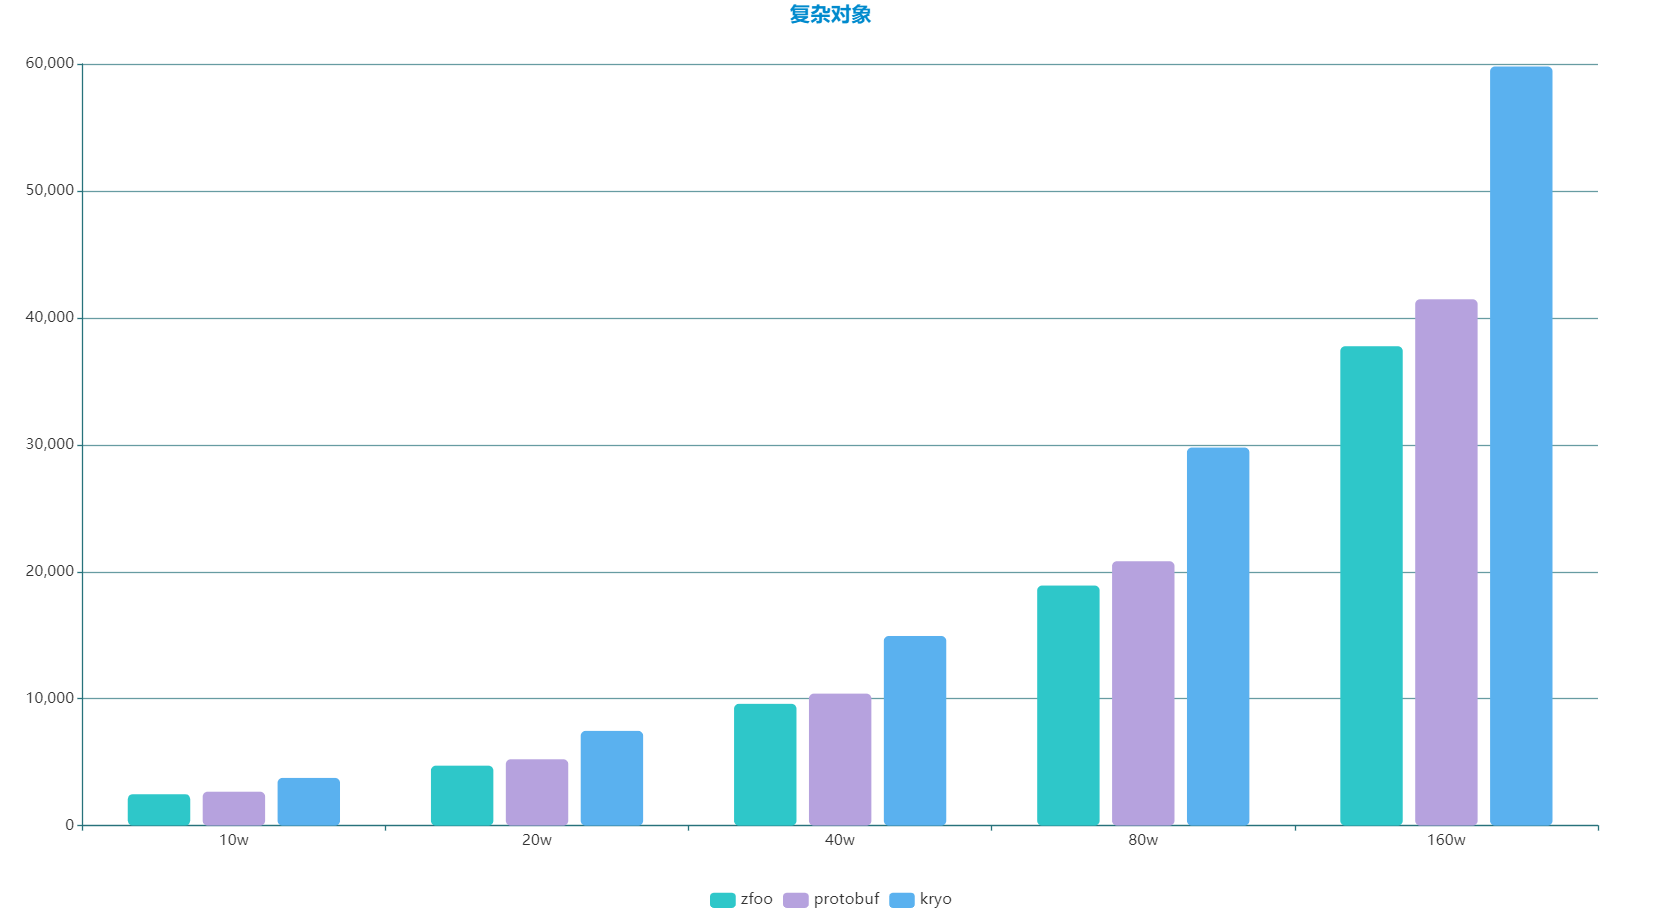
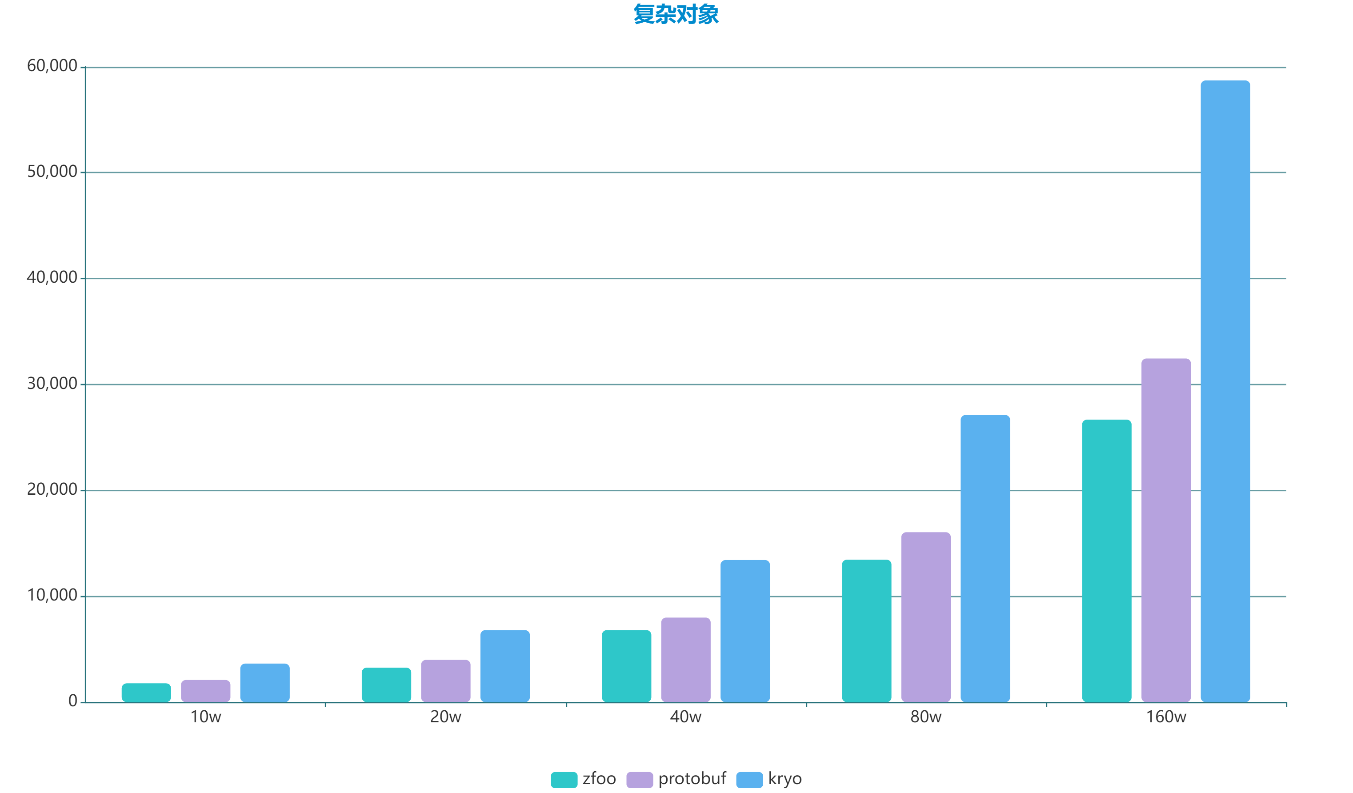
perf[protocol]: 更新文档

diff --git a/protocol/src/test/java/com/zfoo/protocol/SpeedTest.java b/protocol/src/test/java/com/zfoo/protocol/SpeedTest.java
@@ -15,10 +15,8 @@ package com.zfoo.protocol;
 
 
 import com.esotericsoftware.kryo.Kryo;
-import com.esotericsoftware.kryo.io.ByteBufferInput;
-import com.esotericsoftware.kryo.io.ByteBufferOutput;
-import com.esotericsoftware.kryo.io.Input;
-import com.esotericsoftware.kryo.io.Output;
+import com.esotericsoftware.kryo.unsafe.UnsafeInput;
+import com.esotericsoftware.kryo.unsafe.UnsafeOutput;
 import com.google.protobuf.ByteString;
 import com.google.protobuf.CodedInputStream;
 import com.google.protobuf.CodedOutputStream;
@@ -33,7 +31,6 @@ import io.netty.buffer.UnpooledUnsafeHeapByteBuf;
 import org.junit.Ignore;
 import org.junit.Test;
 
-import java.nio.ByteBuffer;
 import java.util.*;
 import java.util.concurrent.CountDownLatch;
 import java.util.concurrent.ExecutorService;
@@ -54,8 +51,8 @@ public class SpeedTest {
      * <p>
      * 包体大小：
      * 简单对象，zfoo包体大小8，kryo包体大小5，protobuf包体大小8
-     * 常规对象，zfoo包体大小547，kryo包体大小594，protobuf包体大小984
-     * 复杂对象，zfoo包体大小2214，kryo包体大小2525，protobuf包体大小5091
+     * 常规对象，zfoo包体大小430，kryo包体大小483，protobuf包体大小793
+     * 复杂对象，zfoo包体大小2216，kryo包体大小2528，protobuf包体大小5091
      */
     @Ignore
     @Test
@@ -140,8 +137,8 @@ public class SpeedTest {
     public void kryoTest() {
         var kryo = kryos.get();
 
-        var output = new Output(1024 * 8);
-        var input = new Input(output.getBuffer());
+        var output = new UnsafeOutput(1024 * 8);
+        var input = new UnsafeInput(output.getBuffer());
 
         // 序列化和反序列化简单对象
         long startTime = System.currentTimeMillis();

diff --git a/protocol/README.md b/protocol/README.md
@@ -1,9 +1,9 @@
 ### Ⅰ. 简介
 
 - [zfoo protocol](https://github.com/zfoo-project/zfoo/blob/main/protocol/README.md)
-  是目前的Java二进制序列化和反序列化最快的框架，并且为序列化后字节最少的框架
+  是目前的Java二进制序列化和反序列化速度最快的框架，并且为序列化字节最少的框架
 - 协议目前原生支持 **C++ Java Javascript C# Lua GDScript**，可以轻易实现跨平台
-- 使用Javassist字节码增强动态生成顺序执行的序列化和反序列化函数，顺序执行的函数可以轻易的被JIT编译以达到极致的性能
+- 协议可以自定义私有协议格式，让你的协议更加安全，支持增加字段和兼容前后版本协议
 - 兼容protobuf，支持生成protobuf协议文件，提供从pojo到proto的生成方式
 
 ### Ⅱ. 快速使用
@@ -23,7 +23,7 @@ var packet = ProtocolManager.read(buffer);
 
 ### Ⅲ. 性能测试
 
-- 单线程环境，在没有任何JVM参数调优的情况下速度比Protobuf快20%，比Kryo快40%，[参见性能测试](src/test/java/com/zfoo/protocol/SpeedTest.java)
+- 单线程环境，在没有任何JVM参数调优的情况下速度比Protobuf快50%，比Kryo快100%，[参见性能测试](src/test/java/com/zfoo/protocol/SpeedTest.java)
 - 线程安全，zfoo和Protobuf的性能不受任何影响，kryo因为线程不安全性能会有所损失，[参见性能测试](src/test/java/com/zfoo/protocol/SpeedTest.java)
 
 
@@ -42,43 +42,33 @@ cpu： i9900k
 
 ### Ⅳ. 为什么快
 
-- 轻量级实现，核心序列化和反序列化代码一千行左右
+- 使用Javassist字节码增强动态生成顺序执行的序列化和反序列化函数，顺序化的函数可以轻易的被JIT编译以达到极致的性能
+- 原生集成netty的高性能ByteBuf
 - 没有装箱和拆箱，避免了无效GC
 - 天生线程安全并且无锁化；kryo强制要求每条线程都有自己的一个Kryo实例，这是一个比较重的设计，特别是线程比较多的场景
 - 没有反射，没有unsafe操作；对比kryo中使用objenesis导致大量unsafe，而且在Java11中运行会出现警告
-- 优化了int和long的zigzag和varint编码的算法，避免了一些多余的方法调用和位操作
 - 扁平化了方法栈的调用深度，数据结构嵌套没有任何性能损失，如List<Set<Map<>>>；对比kryo和protobuf数据结构嵌套会出现性能损失
-- 使用Javassist字节码增强动态生成顺序执行的序列化和反序列化函数，顺序化的函数可以轻易的被JIT编译以达到极致的性能
-- 其它优点
+- 无漏洞注入风险，只有初始化时会进行字节码增强，后期不会再进行任何字节码的操作
 
 ```
-无漏洞注入风险，只有初始化时会进行字节码增强，后期不会再进行任何字节码的操作
 数据压缩体积小，压缩体积比kryo和protobuf都要小；比kryo小是因为kryo需要写入每个对象的注册号
 智能语法分析，错误的协议定义将无法启动程序并给出错误警告
 提升开发效率，完全支持POJO方式开发，使用非常简单
 ```
 
-### Ⅴ. 待解决的问题
+### Ⅴ. 为什么小
 
-- 为了代码的优雅，zfoo protocol要求全部的协议类都要继承IPacket，但是可以保证不损失性能的情况下支持不继承IPacket的设计，这个有待继续讨论。
-- 协议类修改
-  - 修改字段名称过后无法解析，内部使用字段的名称按照字符串的自然顺序来依次读写的，所以修改名称会导致读写顺序变化导致出现异常
-  - 减少字段无法解析，没必要一定要删除一个不需要的字段，所以不考虑这种情况
-  - 增加字段无法解析，可以考虑通过版本号去控制，或者增加新的协议类去解决（组合大于继承，协议类应该对扩展开放，对修改关闭）
+- 轻量级实现，核心序列化和反序列化代码一千行左右
+- 优化了int和long的zigzag和varint编码的算法，避免了一些多余的方法调用和位操作
+- 数据压缩体积小，压缩体积比kryo和protobuf都要小；比kryo小是因为kryo需要写入每个对象的注册号
+- 智能语法分析，错误的协议定义将无法启动程序并给出错误警告
+- 提升开发效率，完全支持POJO方式开发，使用非常简单
 
 ```
-设计模式六大原则中的开闭原则是对扩展开放，对修改关闭。协议的设计涉及到功能应该也要遵守这个原则。
-
 目前的序列化过后对象的大小如下：
 简单对象，zfoo包体大小8，kryo包体大小5，protobuf包体大小8
-常规对象，zfoo包体大小547，kryo包体大小594，protobuf包体大小984
-复杂对象，zfoo包体大小2214，kryo包体大小2525，protobuf包体大小5091
-
-如果考虑支持修改协议类字段名称，必须让字段的读写顺序可控，这就需要注解来标识字段的顺序（protostuff就是这样做的），但是感觉这样不优雅。
-如果考虑支持字段增加和减少，需要消耗5%左右的性能（预估），并且增加一倍的包体积大小（写入字段的顺序），感觉不是非常划算。
-因为可以通过协议版本号来解决这个问题，所以去支持这样的增删操作动力并不是非常的大。
-
-对于服务器来说协议一般有对内和对外的协议，对外protobuf用起来还行，但是服务器的内部调用protobuf用的就少了，用zfoo就可以统一对内和对外的协议。
+常规对象，zfoo包体大小430，kryo包体大小483，protobuf包体大小793
+复杂对象，zfoo包体大小2216，kryo包体大小2528，protobuf包体大小5091
 ```
 
 ### Ⅵ. 协议规范
@@ -88,22 +78,32 @@ cpu： i9900k
 - 协议类必须是简单的javabean，不能继承任何其它的类，但是可以继承接口
 
 - 默认的数据格式支持，无需用户手动注册，[参考类定义](src/test/java/com/zfoo/protocol/packet/ComplexObject.java)
-  - boolean，byte，short，int，long，float，double，char，String
-  - Boolean，Byte，Short，Integer，Long，Float，Double，Character，序列化的时候如果null，会给个默认值0（Character默认值为Character.MIN_VALUE）
-  - int[]，Integer[]，如果是null，则解析后的为一个长度为0的数组
-    - 原生泛型List，Set，Map，反序列化返回类型为HashSet，ArrayList，HashMap，并且空指针安全（返回大小为0的集合）
-    - List<Integer>，必须指定泛型类，如果发送的是[1,1,null,1]，接收到的是[1,1,0,1]
-    - List<XXXClass>，如果发送的是[obj,obj,null,obj]，接收到的是[obj,obj,null,obj]，即引用类型序列化之前为null，序列化之后同样为null
+    - boolean，byte，short，int，long，float，double，char，String
+    - Boolean，Byte，Short，Integer，Long，Float，Double，Character，序列化的时候如果null，会给个默认值0（Character默认值为Character.MIN_VALUE）
+    - int[]，Integer[]，如果是null，则解析后的为一个长度为0的数组
+        - 原生泛型List，Set，Map，反序列化返回类型为HashSet，ArrayList，HashMap，并且空指针安全（返回大小为0的集合）
+        - List<Integer>，必须指定泛型类，如果发送的是[1,1,null,1]，接收到的是[1,1,0,1]
+        - List<XXXClass>，如果发送的是[obj,obj,null,obj]，接收到的是[obj,obj,null,obj]，即引用类型序列化之前为null，序列化之后同样为null
 
 - 不支持的数据格式，因为zfoo会自动识别不支持的类型并且给出错误警告，所以用户不必太关心
-  - int[][]，二维以上数组，考虑到不是所有语言都支持多维数组
-  - List<Integer>[]，Map<Integer, Integer>[]，Java语言本身就没有支持泛型类数组
-  - List<int[]>，Map<Integer, Integer[]>，泛型里面套数组，这种写法看起来比较奇怪，实际使用的地方很少
-  - 枚举类，考虑到很多其他语言不支持枚举类，可以用int或者string在代码层面做替换
-  - 自定义泛型类XXXClass<T>，泛型类在很多框架中都极易出现性能上和解析上的问题，而且并不是所有语言都支持
-  - 循环引用，虽然底层支持循环引用，但是考虑到循环引用带来语义上难以理解，容易出现错误，所以就屏蔽了
+    - int[][]，二维以上数组，考虑到不是所有语言都支持多维数组
+    - List<Integer>[]，Map<Integer, Integer>[]，Java语言本身就没有支持泛型类数组
+    - List<int[]>，Map<Integer, Integer[]>，泛型里面套数组，这种写法看起来比较奇怪，实际使用的地方很少
+    - 枚举类，考虑到很多其他语言不支持枚举类，可以用int或者string在代码层面做替换
+    - 自定义泛型类XXXClass<T>，泛型类在很多框架中都极易出现性能上和解析上的问题，而且并不是所有语言都支持
+    - 循环引用，虽然底层支持循环引用，但是考虑到循环引用带来语义上难以理解，容易出现错误，所以就屏蔽了
 
-### Ⅵ. 用途
+### Ⅶ. 待解决的问题
 
-- 通信协议
-- 对象复制，深克隆
+- 为了代码的优雅，zfoo protocol要求全部的协议类都要继承IPacket，但是可以保证不损失性能的情况下支持不继承IPacket的设计，这个有待继续讨论。
+
+- 协议类修改
+    - 修改字段名称过后无法解析，内部默认使用字段的名称按照字符串的自然顺序来依次读写的（也可以自定义），所以修改名称会导致读写顺序变化导致出现异常
+    - 减少字段无法解析，没必要一定要删除一个不需要的字段，所以不考虑这种情况
+    - 增加字段，需要加上Compatible，order需要自然增大
+
+```
+设计模式六大原则中的开闭原则是对扩展开放，对修改关闭。协议的设计涉及到功能应该也要遵守这个原则，优先增加新的协议而不是修改现有协议。
+
+协议类修改，可以考虑通过版本号去控制，或者增加新的协议类去解决（组合大于继承，协议类应该对扩展开放，对修改关闭）
+```

diff --git a/README.md b/README.md
@@ -20,6 +20,13 @@
 <br/>
 
 -----------
+Why is zfoo protocol ?
+-----------
+- 目前的Java二进制序列化和反序列化速度最快的框架，并且为序列化字节最少的框架
+- 自定义协议格式的私有化序列化框架，同时能够前后兼容，更加安全，防止破解
+- 协议目前原生支持 C++ Java Javascript C# Lua GDScript，可以轻易实现跨平台
+- 单线程的Benchmark测试中，序列化和反序列化速度比Protobuf快50%，比Kryo快100%
+
 Ⅰ. zfoo简介🚩
 -----------
 
@@ -43,7 +50,6 @@
 - 性能需求极高的项目，如网站和游戏服务器框架，单服滚服，全球服，直播聊天，IM系统，实时推送
 - 节省研发成本的项目，如想节省，开发，部署，运维成本
 - 适合作为 **Godot，Unity，Cocos，Webgl，H5** 的后端基础框架，网络通信协议支持 tcp udp websocket http
-- 协议目前原生支持 **C++ Java Javascript C# Lua GDScript**，可以轻易实现跨平台
 - 喜欢 [KISS法则](https://baike.baidu.com/item/KISS原则/3242383) 的项目 ，简单的配置，优雅的代码
 
 Ⅲ. 详细的教程和完整的工程案例
